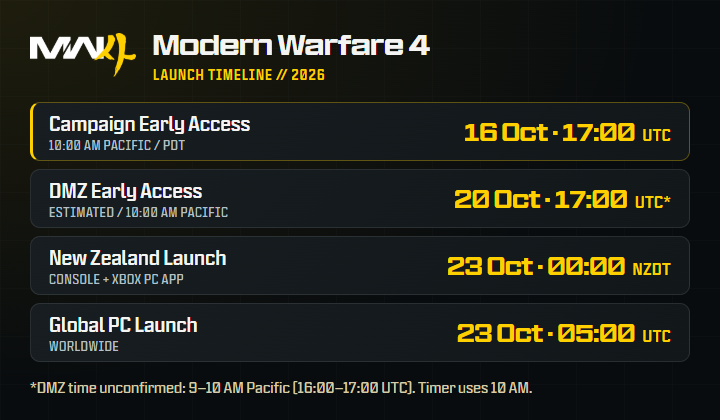
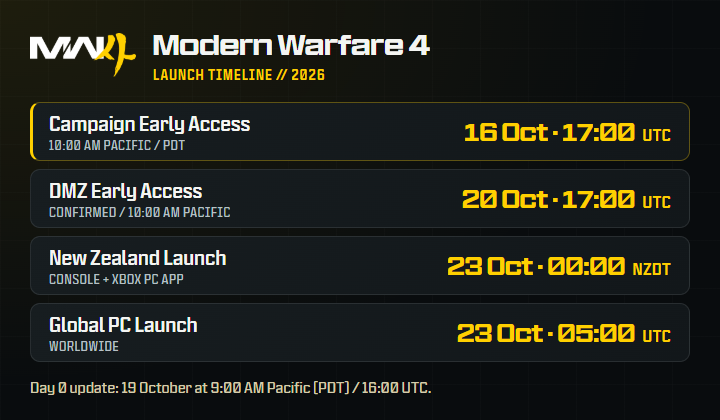
feat: confirm DMZ launch and add Day 0 update notice.

Changed region(s): [[0.0306, 0.8976, 0.7333, 0.9595], [0.6111, 0.4333, 0.9472, 0.4952], [0.0611, 0.4952, 0.3361, 0.5262]]

diff --git a/index.html b/index.html
@@ -11,11 +11,11 @@
   <meta property="og:title" content="Modern Warfare 4 — Launch Clock" />
   <meta property="og:type" content="website" />
   <meta property="og:url" content="https://mw4.mxr.lol" />
-  <meta property="og:image" content="https://mw4.mxr.lol/launch-timeline.png?v=7" />
+  <meta property="og:image" content="https://mw4.mxr.lol/launch-timeline.png?v=8" />
   <meta property="og:image:type" content="image/png" />
   <meta property="og:image:width" content="720" />
   <meta property="og:image:height" content="420" />
-  <meta property="og:image:alt" content="Modern Warfare 4 launch timeline: Campaign Early Access on 16 Oct 2026 at 17:00 UTC (10:00 AM PDT). DMZ Early Access on 20 Oct at 17:00 UTC (estimated; 9–10 AM PDT unconfirmed). New Zealand launch on 23 Oct at 00:00 NZDT, and global PC launch on 23 Oct at 05:00 UTC." />
+  <meta property="og:image:alt" content="Modern Warfare 4 launch timeline: Campaign Early Access on 16 Oct 2026 at 17:00 UTC (10:00 AM PDT). DMZ Early Access on 20 Oct at 17:00 UTC (10:00 AM PDT, confirmed). New Zealand launch on 23 Oct at 00:00 NZDT, and global PC launch on 23 Oct at 05:00 UTC. Day 0 update: 19 Oct at 16:00 UTC (9:00 AM PDT)." />
   <meta property="og:description" content="Campaign and DMZ early access, New Zealand, and global PC launch countdowns." />
 
   <script id="discord:component-embed" type="application/json">
@@ -32,8 +32,8 @@
             "type": 12,
             "items": [
               {
-                "media": { "url": "https://mw4.mxr.lol/launch-timeline.png?v=7" },
-                "description": "2026 launch times: Campaign Early Access — 16 Oct, 17:00 UTC (10:00 AM PDT). DMZ Early Access — 20 Oct, 17:00 UTC (estimated; 9–10 AM PDT unconfirmed). New Zealand — 23 Oct, 00:00 NZDT; Global PC — 23 Oct, 05:00 UTC."
+                "media": { "url": "https://mw4.mxr.lol/launch-timeline.png?v=8" },
+                "description": "2026 launch times: Campaign Early Access — 16 Oct, 17:00 UTC (10:00 AM PDT). DMZ Early Access — 20 Oct, 17:00 UTC (10:00 AM PDT, confirmed). New Zealand — 23 Oct, 00:00 NZDT; Global PC — 23 Oct, 05:00 UTC. Day 0 update — 19 Oct, 16:00 UTC (9:00 AM PDT)."
               }
             ]
           },
@@ -872,20 +872,21 @@
         </div>
       </article>
 
-      <article class="release-card" data-countdown data-target="2026-10-20T17:00:00Z" data-complete="The estimated DMZ Early Access start time has arrived. Check official channels for availability.">
+      <article class="release-card" data-countdown data-target="2026-10-20T17:00:00Z" data-complete="DMZ Early Access is underway.">
         <div class="release-copy">
           <div class="release-kicker">
             <span class="release-index">02 // DMZ EARLY ACCESS</span>
-            <span class="status-chip status-chip--quiet">Time unconfirmed</span>
+            <span class="status-chip status-chip--quiet">Time confirmed</span>
           </div>
           <h2>DMZ Early Access</h2>
           <p class="release-description">Get an early start in DMZ.</p>
-          <p class="release-date"><time datetime="2026-10-20T17:00:00Z">20 October 2026 · 17:00 UTC*</time></p>
-          <p class="campaign-note">*Estimated: 10:00 AM Pacific (PDT). The start time may be 9:00 AM PDT (16:00 UTC); timing is unconfirmed.</p>
-          <p class="local-time" hidden><span class="local-time-label">Your local time (estimated)</span><time data-local-time datetime="2026-10-20T17:00:00Z">20 Oct 2026, 5:00 PM UTC</time></p>
+          <p class="release-date"><time datetime="2026-10-20T17:00:00Z">20 October 2026 · 17:00 UTC</time></p>
+          <p class="campaign-note">10:00 AM Pacific Daylight Time (PDT).</p>
+          <p class="campaign-note"><strong>Day 0 update:</strong> <time datetime="2026-10-19T16:00:00Z">19 October · 9:00 AM Pacific (PDT) / 16:00 UTC</time>.</p>
+          <p class="local-time" hidden><span class="local-time-label">Your local time</span><time data-local-time datetime="2026-10-20T17:00:00Z">20 Oct 2026, 5:00 PM UTC</time></p>
         </div>
         <div class="clock-area">
-          <div class="countdown" role="timer" aria-label="Estimated DMZ Early Access countdown">
+          <div class="countdown" role="timer" aria-label="DMZ Early Access countdown">
             <div class="time-box"><span class="time-value" data-unit="hours">00</span><span class="time-label">Hours</span></div>
             <div class="time-box"><span class="time-value" data-unit="minutes">00</span><span class="time-label">Minutes</span></div>
             <div class="time-box"><span class="time-value" data-unit="seconds">00</span><span class="time-label">Seconds</span></div>
